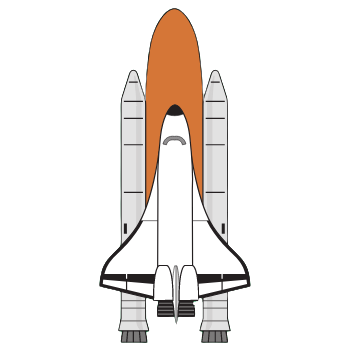
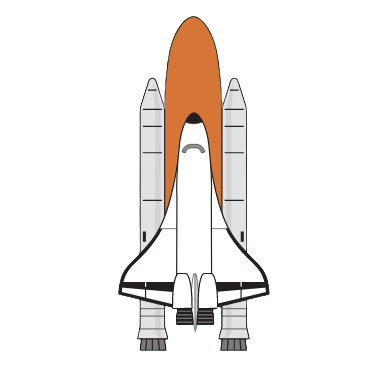
Ship image states added

Changed region(s): [[0.2849, 0.0, 0.7123, 0.9972]]

diff --git a/src/main/java/cz/cvut/fel/pjv/model/PlayerShip.java b/src/main/java/cz/cvut/fel/pjv/model/PlayerShip.java
@@ -13,7 +13,7 @@ public class PlayerShip extends Ship {
 	private int level; // current level of ship
 	private double fuel; // amount of fuel in ship
 	private boolean isAlive;
-	private double gravity;
+	private final double gravity;
 	private static final double rightBorder = WIDTH - SHIP_DIMENSIONS;
 	private static final double leftBorder = 0;
 	private static final double upBorder = 0;
@@ -34,6 +34,7 @@ public class PlayerShip extends Ship {
 		applyGravity();
 		checkBorders();
 		moveImage();
+		setRightImage();
 	}
 
 	@Override
@@ -74,6 +75,31 @@ public class PlayerShip extends Ship {
 	private void moveImage() {
 		spriteFrame.setTranslateX(positionX);
 		spriteFrame.setTranslateY(positionY);
+	}
+
+	private void setRightImage() {
+		if (spaceExplorationEngine.isUp()) {
+			if (spaceExplorationEngine.isRight()) {
+				spriteFrame.setRotate(30);
+			} else if (spaceExplorationEngine.isLeft()) {
+				spriteFrame.setRotate(-30);
+			} else {
+				spriteFrame.setRotate(0);
+			}
+			spriteFrame.setImage(imageList.get(1));
+		} else {
+			if (spaceExplorationEngine.isLeft()) {
+				spriteFrame.setRotate(-30);
+				spriteFrame.setImage(imageList.get(0));
+			} else if (spaceExplorationEngine.isRight()) {
+				spriteFrame.setRotate(30);
+				spriteFrame.setImage(imageList.get(0));
+			} else {
+				spriteFrame.setRotate(0);
+				spriteFrame.setImage(imageList.get(0));
+			}
+		}
+
 	}
 
 	/**

diff --git a/src/main/java/cz/cvut/fel/pjv/fileIO/LevelData.java b/src/main/java/cz/cvut/fel/pjv/fileIO/LevelData.java
@@ -11,7 +11,7 @@ public class LevelData {
 	private double gravity;
 	private String backgroundImagePath;
 	private String shipImagePath;
-	private String shipImageRotatedLeftPath;
+	private String shipImageEnginesOnPath;
 	private int numOfFuels;
 	private int numOfLevelEnhancers;
 	private int numOfLifeAdders;
@@ -44,12 +44,12 @@ public class LevelData {
 		this.shipImagePath = shipImagePath;
 	}
 
-	public String getShipImageRotatedLeftPath() {
-		return shipImageRotatedLeftPath;
+	public String getShipImageEnginesOnPath() {
+		return shipImageEnginesOnPath;
 	}
 
-	public void setShipImageRotatedLeftPath(String shipImageRotatedLeftPath) {
-		this.shipImageRotatedLeftPath = shipImageRotatedLeftPath;
+	public void setShipImageEnginesOnPath(String shipImageEnginesOnPath) {
+		this.shipImageEnginesOnPath = shipImageEnginesOnPath;
 	}
 
 	public int getNumOfFuels() {

diff --git a/src/main/java/cz/cvut/fel/pjv/view/ViewEngine.java b/src/main/java/cz/cvut/fel/pjv/view/ViewEngine.java
@@ -73,7 +73,7 @@ public class ViewEngine {
 		background = new Image(levelData.getBackgroundImagePath(), WIDTH, HEIGHT, true, false, true);
 		help = new Image("/help.png", WIDTH, HEIGHT, true, false, true);
 		shipImage0 = new Image(levelData.getShipImagePath(), SHIP_DIMENSIONS, SHIP_DIMENSIONS, true, false, true);
-		shipImage1 = new Image(levelData.getShipImageRotatedLeftPath(), SHIP_DIMENSIONS, SHIP_DIMENSIONS, true, false, true);
+		shipImage1 = new Image(levelData.getShipImageEnginesOnPath(), SHIP_DIMENSIONS, SHIP_DIMENSIONS, true, false, true);
 	}
 
 	private void createGameActors() {
